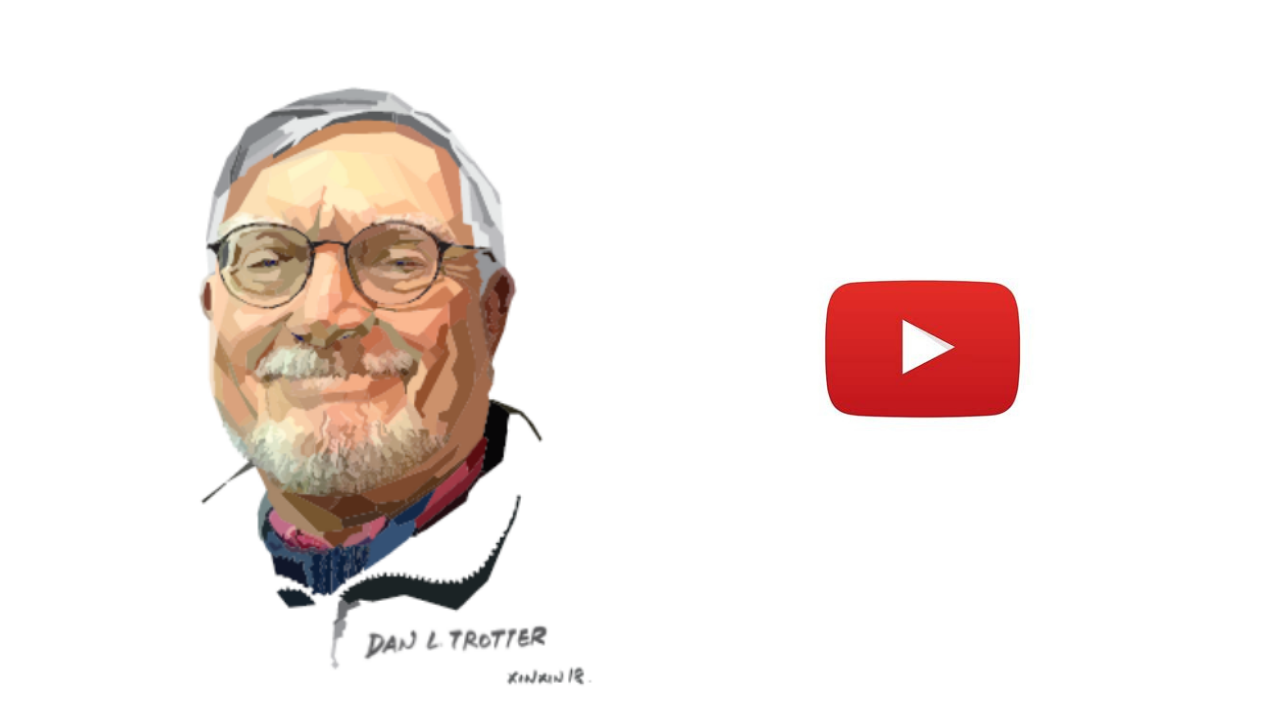
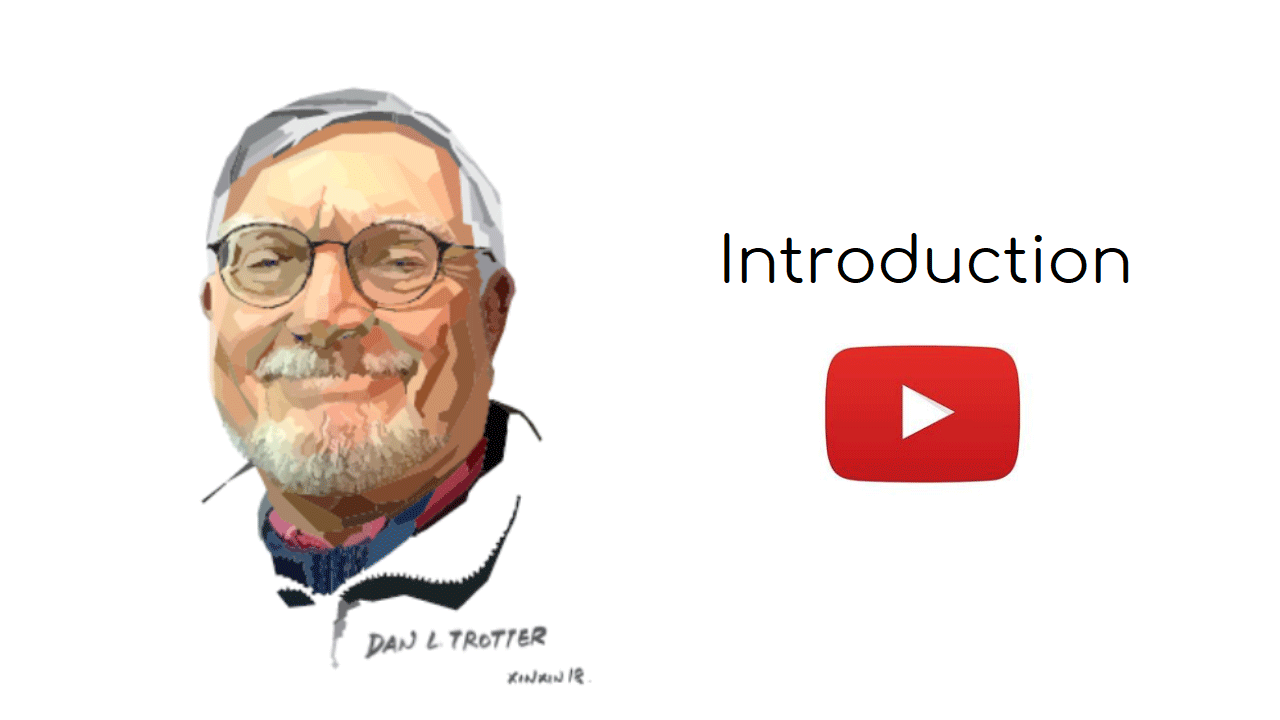
Add new Playlist Button

Changed region(s): [[0.5625, 0.3361, 0.9062, 0.6722], [0.2188, 0.7333, 0.25, 0.7639]]

diff --git a/pages/index.vue b/pages/index.vue
@@ -12,7 +12,7 @@
         </a>
         <div class="third-party-links">
           <a href="https://dantrotter.podbean.com"><img src="~/static/AvailableOnPodbean.png" /></a>
-          <a href="https://www.youtube.com/channel/UCvdhN-S_y117F6p0V1nGR1Q/playlists"><img src="~/static/AvailableOnPodbean.png" /></a>
+          <a href="https://www.youtube.com/channel/UCvdhN-S_y117F6p0V1nGR1Q/playlists"><img src="~/static/PlaylistButton.png" /></a>
         </div>
       </div>
       <div>
